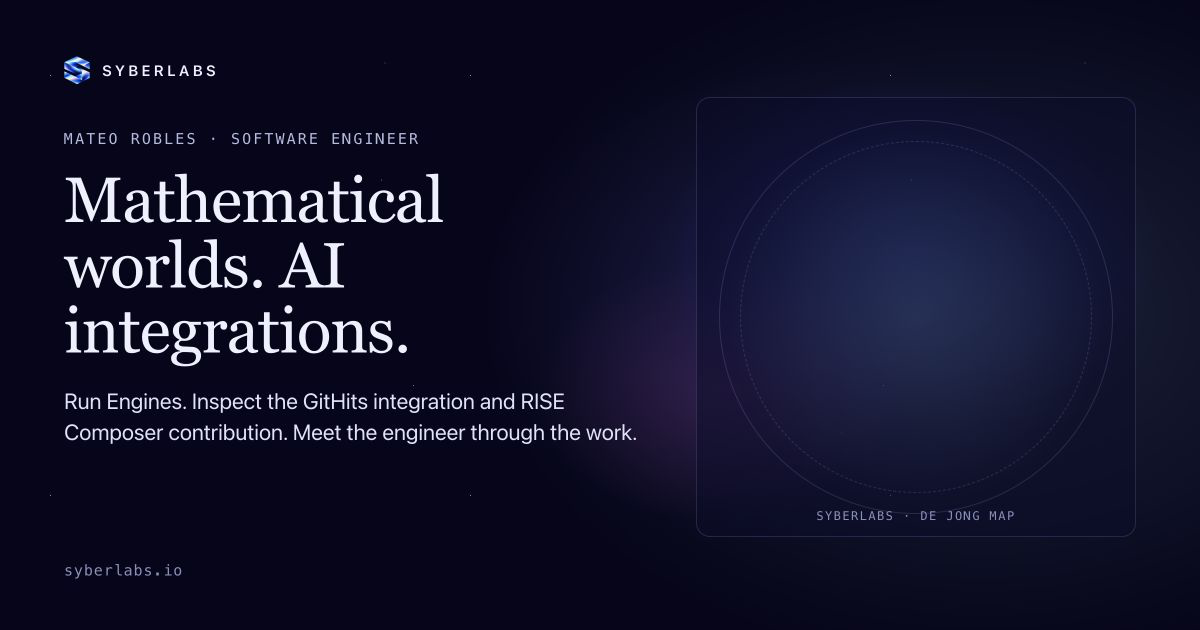
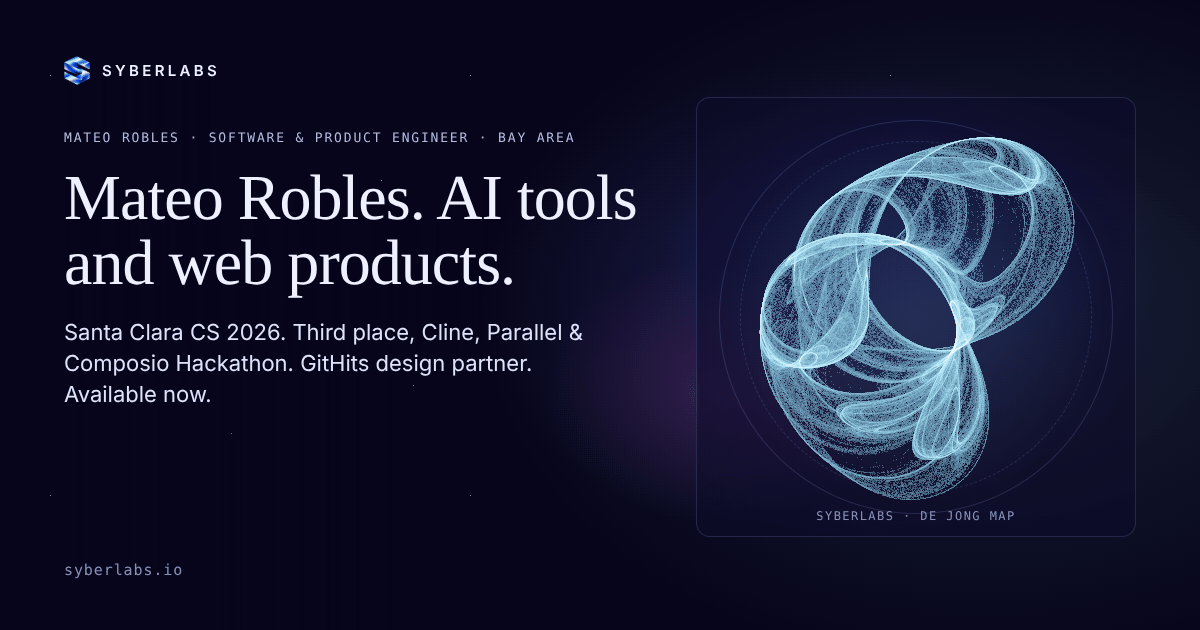
Fix the blank social preview cards for the hiring pages (#172)
og/home.png and og/mateo.png showed an empty plate where the de Jong
sigil belongs, so shared links previewed as half-blank cards. Since
more after draw() returns, while scripts/og-cards.mjs screenshots as
soon as draw() returns. Measured on Chromium 153: first paint about
250 ms after draw(), screenshot done at 45 to 95 ms, zero sigil pixels
captured. The script now waits for the sigil's pixels before each
screenshot; all 17 seeds paint (checked in memory, other PNGs not
rewritten) and repeat renders are byte-identical. The sigil stays, so
no image fallback was needed.

New copy for the two cards. A 58 px headline step for headlines over
42 characters and a 13 px eyebrow step for eyebrows over 48 characters
keep both on two headline lines and one eyebrow line; no other card
reaches either threshold. Only og/home.png (134 KB) and og/mateo.png
(138 KB) are regenerated, and their og:image and twitter:image URLs
move to ?v=20261027b.

Validation: site-chrome --check; pnpm build:site (llms up to date);
dist/og/home.png and dist/og/mateo.png match the committed files;
account-nav tests 9/9.

Claude-Session: https://claude.ai/code/session_01VHrJ4gXPnB9boiQMVfdGit

diff --git a/mateo/index.html b/mateo/index.html
@@ -10,11 +10,11 @@
   <meta property="og:title" content="Mateo Robles | Engineering Portfolio | SyberLabs">
   <meta property="og:description" content="Mateo Robles, Bay Area software and product engineer. Santa Clara CS 2026. Hackathon third place, GitHits design-partner pilot, RISE lead development. Available now.">
   <meta property="og:url" content="https://syberlabs.io/mateo/">
-  <meta property="og:image" content="https://syberlabs.io/og/mateo.png?v=20261027">
+  <meta property="og:image" content="https://syberlabs.io/og/mateo.png?v=20261027b">
   <meta name="twitter:card" content="summary_large_image">
   <meta name="twitter:title" content="Mateo Robles | Engineering Portfolio | SyberLabs">
   <meta name="twitter:description" content="Mateo Robles, Bay Area software and product engineer. Santa Clara CS 2026. Hackathon third place, GitHits design-partner pilot, RISE lead development. Available now.">
-  <meta name="twitter:image" content="https://syberlabs.io/og/mateo.png?v=20261027">
+  <meta name="twitter:image" content="https://syberlabs.io/og/mateo.png?v=20261027b">
   <link rel="icon" href="/favicon-32x32.png?v=prism" type="image/png" sizes="32x32">
   <title>Mateo Robles | Engineering Portfolio | SyberLabs</title>
   <link rel="preconnect" href="https://fonts.googleapis.com">

diff --git a/index.html b/index.html
@@ -18,11 +18,11 @@
   <meta property="og:title" content="Mateo Robles / Software &amp; Product Engineer | SyberLabs" />
   <meta property="og:description" content="Mateo Robles, Bay Area software and product engineer. Santa Clara CS 2026. Third place, Cline, Parallel &amp; Composio Hackathon. GitHits design partner. Available now." />
   <meta property="og:url" content="https://syberlabs.io/" />
-  <meta property="og:image" content="https://syberlabs.io/og/home.png?v=20261027" />
+  <meta property="og:image" content="https://syberlabs.io/og/home.png?v=20261027b" />
   <meta name="twitter:card" content="summary_large_image" />
   <meta name="twitter:title" content="Mateo Robles / Software &amp; Product Engineer | SyberLabs" />
   <meta name="twitter:description" content="Mateo Robles, Bay Area software and product engineer. Santa Clara CS 2026. Third place, Cline, Parallel &amp; Composio Hackathon. GitHits design partner. Available now." />
-  <meta name="twitter:image" content="https://syberlabs.io/og/home.png?v=20261027" />
+  <meta name="twitter:image" content="https://syberlabs.io/og/home.png?v=20261027b" />
   <title>Mateo Robles / Software &amp; Product Engineer | SyberLabs</title>
   <!--email_off-->
   <script type="application/ld+json">
